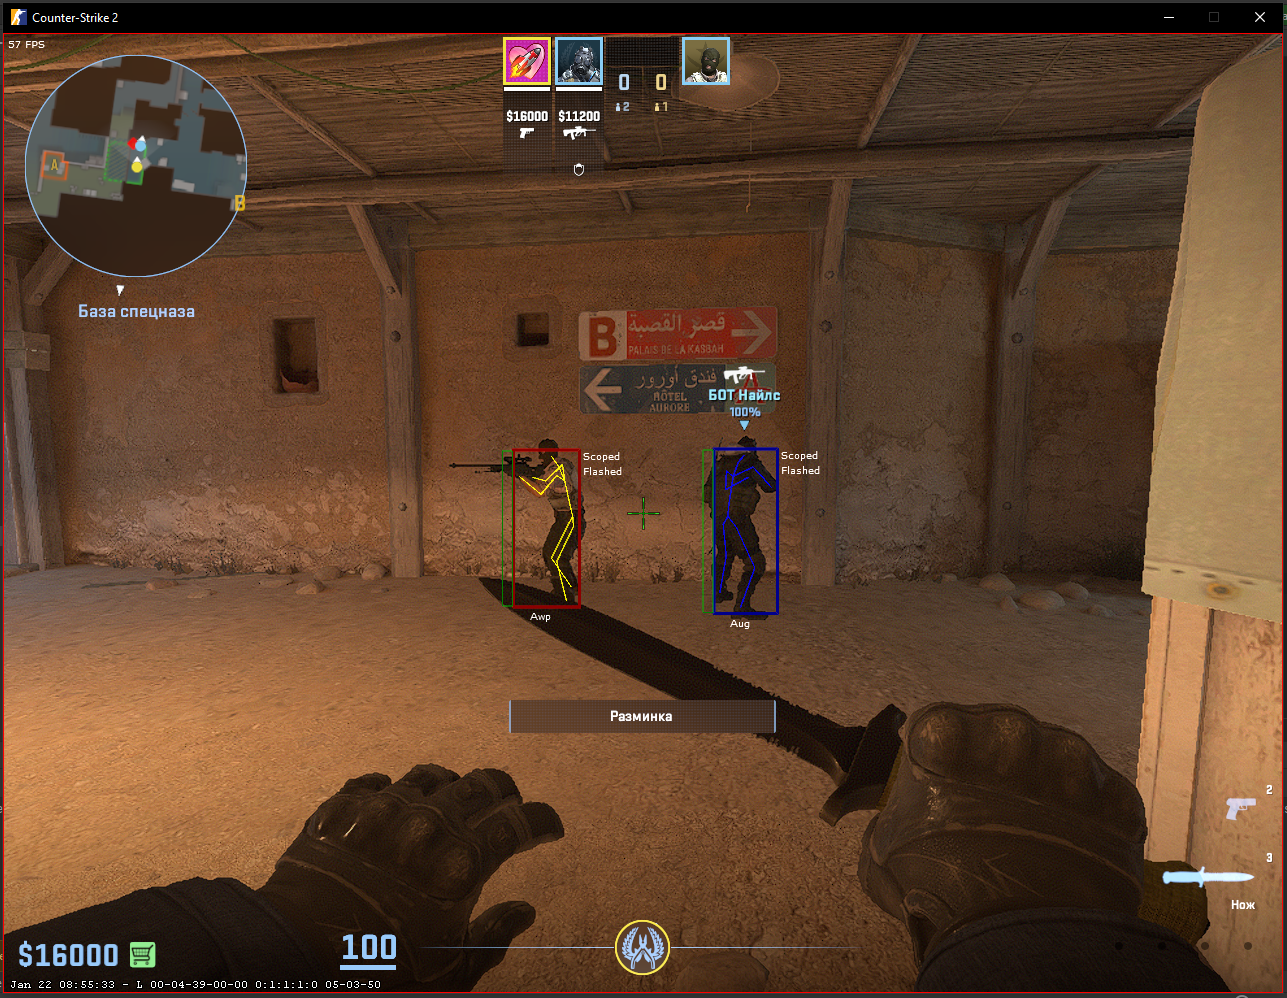
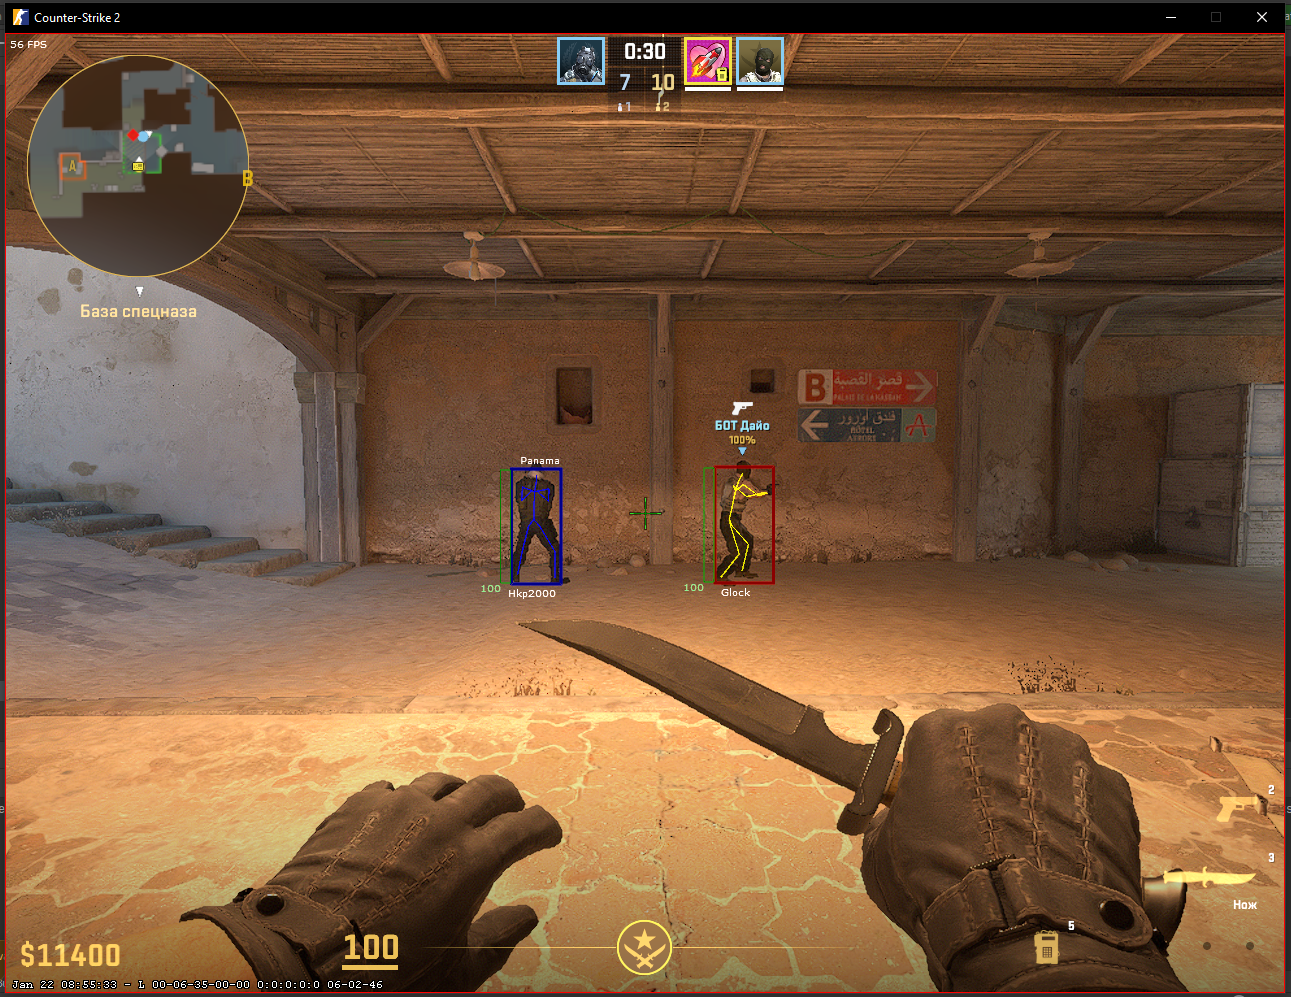
Added entity health numbers

diff --git a/Features/EspBox.cs b/Features/EspBox.cs
@@ -42,6 +42,11 @@ public static class EspBox
             new Vector2(boundingBox.Item1.X - healthBarWidth - healthBarPadding, boundingBox.Item1.Y);
         var healthBarBottomRight = new Vector2(healthBarTopLeft.X + healthBarWidth, boundingBox.Item2.Y);
 
+        // heath bar num
+        graphics.FontConsolas32.DrawText(default, $"{entity.Health}", (int)healthBarTopLeft.X - 20,
+            (int)healthBarBottomRight.Y,
+            Color.LightGreen);
+
         DrawHealthBar(graphics, healthBarTopLeft, healthBarBottomRight, healthPercentage);
 
         //weapon name
@@ -67,10 +72,7 @@ public static class EspBox
         {
             var entityName = entity.Name ?? "UNKNOWN";
             var textWidth2 = graphics.FontConsolas32.MeasureText(null, entityName, FontDrawFlags.Center).Right + 10f;
-
-            // Adjust the position to center the text at the top
             enemyNamePosition.X -= textWidth2 / 2;
-
             graphics.FontConsolas32.DrawText(default, entityName, (int)enemyNamePosition.X,
                 (int)enemyNamePosition.Y,
                 Color.White);

diff --git a/Utils/Offsets.cs b/Utils/Offsets.cs
@@ -5,7 +5,7 @@ using Newtonsoft.Json;
 
 namespace CS2Cheat.Utils;
 
-public class Offsets
+public abstract class Offsets
 {
     #region offsets
 
@@ -37,10 +37,6 @@ public class Offsets
     public static int m_bIsScoped;
     public static int m_flFlashDuration;
     public static int m_iszPlayerName;
-    public static readonly int m_nBombSite = 0xE84;
-    public static readonly int m_bBeingDefused = 0xEBC;
-    public static readonly int m_bBombDefused = 0xED4;
-    public static readonly int dwPlantedC4 = 0x18257D8;
 
 
     public static readonly Dictionary<string, int> Bones = new()
